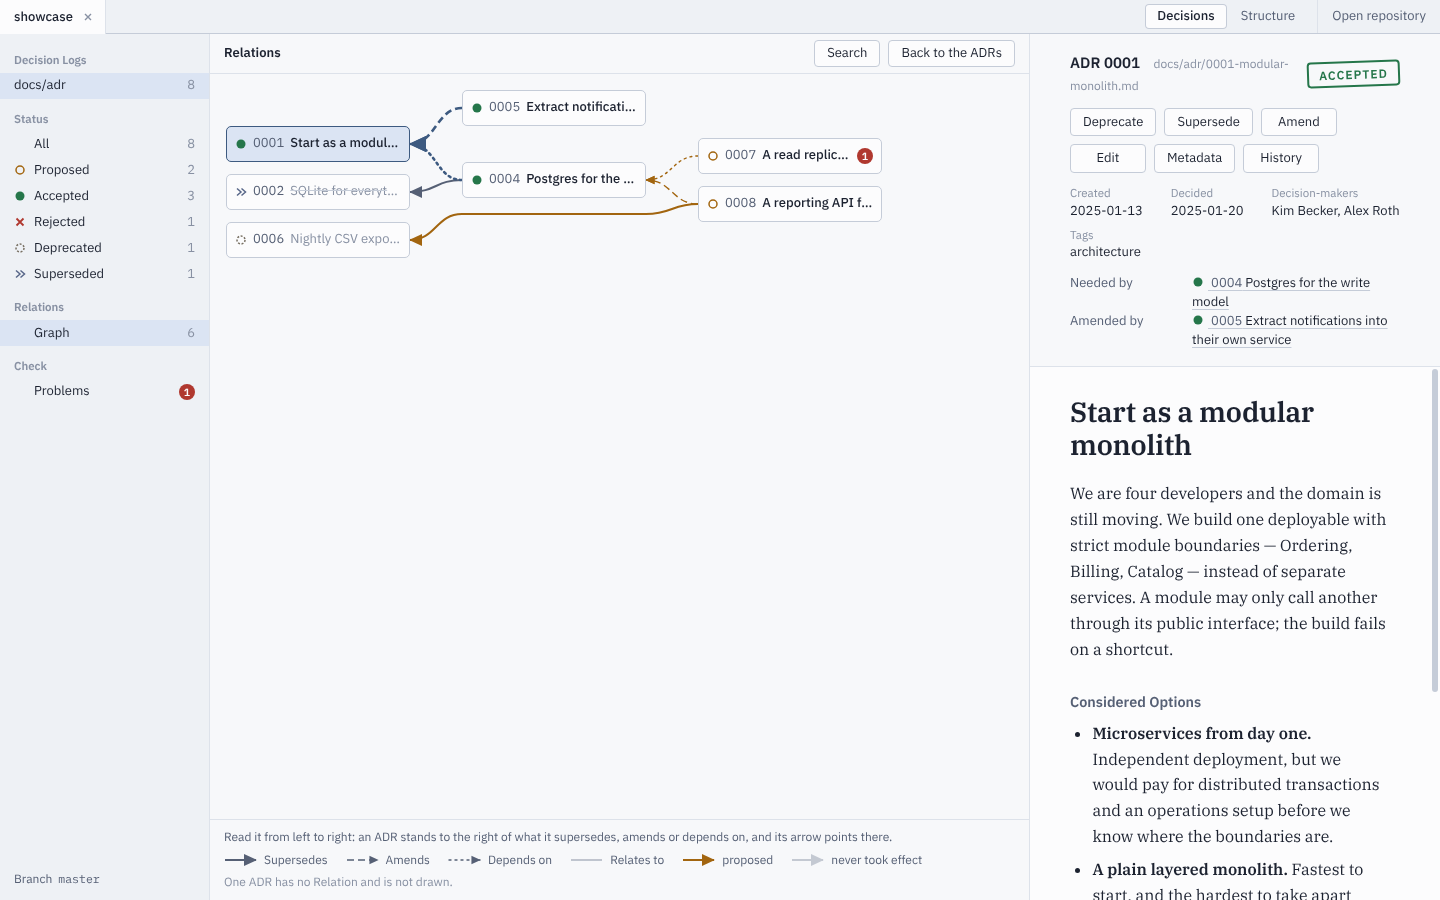
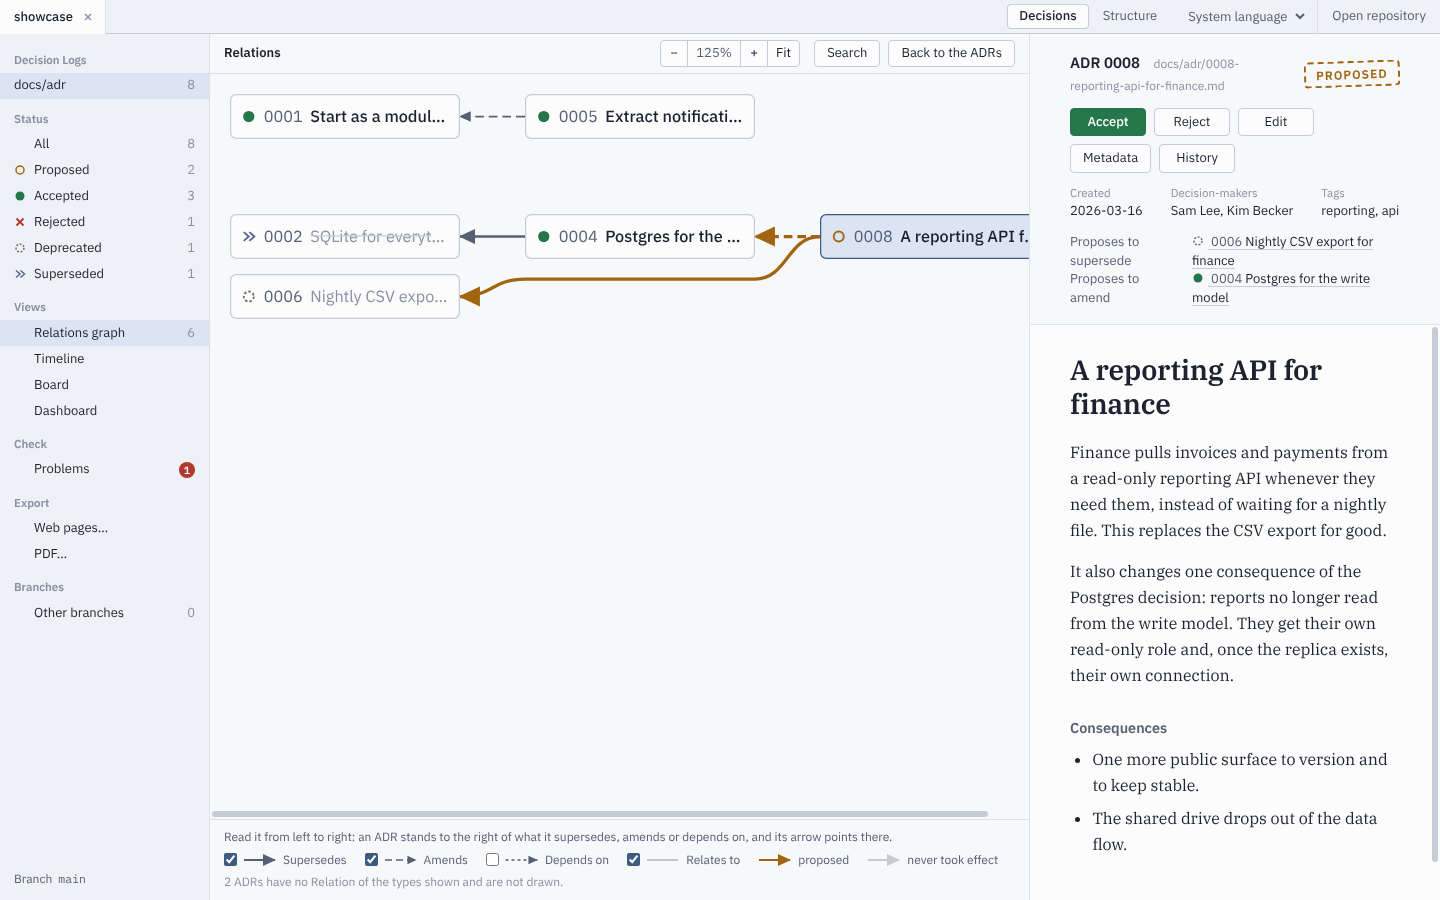
Close the remaining known gaps in the roadmap (part 14)
The roadmap strikes the four gaps under "Later, when a repository
shows the need", each with what holds now. The plan records part 14 as
built, with what was verified in the running app. The README describes
the zoom, the filter and the read-out lines of the Relations graph,
with a new screenshot, and says that a change set is written all of it
or nothing, that the search reads "ß" as "ss", and that the history
follows the file and git.

Claude-Session: https://claude.ai/code/session_01KcUxpgS2rgc4tr52NRcAYm

diff --git a/README.md b/README.md
@@ -45,11 +45,11 @@ The app runs locally: there is no backend, no account and no telemetry.
 ### Decisions
 
 - **Browse.** The app opens one tab per repository and finds every Decision Log in it. You can filter the ADRs by Status: proposed, accepted, rejected, deprecated or superseded. Each ADR shows its Metadata, its Relations and its Back-references, and its text is rendered.
-- **Relations graph.** It shows which ADR supersedes, amends, depends on or relates to which. An ADR stands to the right of what it builds on. A Relation can lead into another Decision Log of the repository, written `docs/adr/0002-…`; the graph draws that ADR with a dashed border.
+- **Relations graph.** It shows which ADR supersedes, amends, depends on or relates to which. An ADR stands to the right of what it builds on. A Relation can lead into another Decision Log of the repository, written `docs/adr/0002-…`; the graph draws that ADR with a dashed border. The graph zooms with its buttons, to fit the pane, and with <kbd>Ctrl</kbd> (<kbd>⌘</kbd> on a Mac) and the mouse wheel about the point under the cursor. The check boxes of its legend show or hide each Relation type, and an ADR left without a Relation that is shown drops out unless it is selected. A screen reader reads each line out as a sentence — "ADR 0004 (Postgres for the write model) supersedes ADR 0002 (SQLite for everything)" — and <kbd>Tab</kbd> goes from box to box.
 
-  ![The Relations graph of a Decision Log](docs/screenshots/readme/relations.png)
+  ![The Relations graph of a Decision Log, zoomed to 125 % and without depends-on](docs/screenshots/readme/relations.png)
 
-- **Write.** You can create a new ADR from a Template: `minimal`, `nygard`, `madr` or the repository's own. You can Accept, Reject, Deprecate, Supersede, Amend and Renumber. Every operation returns a change set, and you see that change set as a diff of every file it touches before anything is written ([ADR-0004](docs/adr/0004-operations-return-change-sets.md)).
+- **Write.** You can create a new ADR from a Template: `minimal`, `nygard`, `madr` or the repository's own. You can Accept, Reject, Deprecate, Supersede, Amend and Renumber. Every operation returns a change set, and you see that change set as a diff of every file it touches before anything is written ([ADR-0004](docs/adr/0004-operations-return-change-sets.md)). A change set is written all of it or nothing: when the disk refuses a step, every file stays as it was ([ADR-0015](docs/adr/0015-a-change-set-is-written-beside-its-files-and-renamed-into.md)).
 
   ![A new ADR that supersedes another, previewed before it is written](docs/screenshots/readme/new-adr-preview.png)
 
@@ -67,8 +67,8 @@ The app runs locally: there is no backend, no account and no telemetry.
 
   ![The Problems of a Decision Log, each with its Repair](docs/screenshots/readme/problems.png)
 
-- **Search.** <kbd>Ctrl</kbd> <kbd>K</kbd> (<kbd>⌘</kbd> <kbd>K</kbd> on a Mac) searches the full text instantly: number, title and body.
-- **git.** The app shows the branch that is checked out and the ADRs with uncommitted changes. For each ADR it shows its history, commit by commit, with the diff. **Commit** commits an ADR's file — and, if you like, those of the ADRs it supersedes or amends — with a message you see and can change. Nothing else that is changed or staged is taken along, and nothing is pushed ([ADR-0012](docs/adr/0012-committing-an-adr-runs-git-commit-for-its-files-only.md)). **Other branches** lists the ADRs that branches which are not checked out add or decide, read from git without checking anything out, and a new ADR warns when another branch has given its number away already.
+- **Search.** <kbd>Ctrl</kbd> <kbd>K</kbd> (<kbd>⌘</kbd> <kbd>K</kbd> on a Mac) searches the full text instantly: number, title and body. It ignores case and accents, and reads "ß" as "ss": "strasse" finds "Straße".
+- **git.** The app shows the branch that is checked out and the ADRs with uncommitted changes. For each ADR it shows its history, commit by commit, with the diff; while the history is open, it follows the file and git. **Commit** commits an ADR's file — and, if you like, those of the ADRs it supersedes or amends — with a message you see and can change. Nothing else that is changed or staged is taken along, and nothing is pushed ([ADR-0012](docs/adr/0012-committing-an-adr-runs-git-commit-for-its-files-only.md)). **Other branches** lists the ADRs that branches which are not checked out add or decide, read from git without checking anything out, and a new ADR warns when another branch has given its number away already.
 - **Export.** **Export → Web pages…** writes the Decision Logs as HTML pages for people who do not use the tool: an index by Status and a page per ADR, with its Relations as links. The pages open from disk, from a file share or from any web host. They run no script and fetch nothing. **PDF…** prints the same ADRs as a PDF, one ADR per page ([ADR-0014](docs/adr/0014-the-export-is-static-html-from-core-printed-to-pdf-by.md)).
 - **Foreign formats.** ADRs written for [MADR](https://adr.github.io/madr/) 2, 3 and 4, for [log4brains](https://github.com/thomvaill/log4brains) and for [adr-tools](https://github.com/npryce/adr-tools) are read as they are. **Migration** converts them into the suite's own format, as a previewed change ([ADR-0005](docs/adr/0005-foreign-formats-are-read-never-written.md)).
 - Light and dark themes, following the system.

diff --git a/docs/plan-roadmap.md b/docs/plan-roadmap.md
@@ -151,6 +151,12 @@ What the roadmap keeps under "Later, when a repository shows the need": a change
 
 *Done when:* each of them has its test, and the roadmap lists no known gap that this plan did not close or defer on purpose.
 
+*Status (2026-11-02):* built. [ADR-0015](adr/0015-a-change-set-is-written-beside-its-files-and-renamed-into.md) records how a change set is written now. `applyChangeSet` (`packages/kernel/src/change/change-set.ts`) checks every file against the preview first, as before. Then it writes every new text beside its file under a hidden name of its own, with the permissions of the file it replaces, and makes it durable, and it gives every file that a new text replaces a second name, a hard link; only then does it rename the new texts into place, the files a Renumber moves first. A step the disk refuses before the renames removes what was made, and a rename that fails is undone from the second names: either way every file is as it was, and the app and the MCP server say "Nothing was written", with what the file system said; the MCP server keeps the change, to be applied again. When undoing fails too, they name each file that is not as it was and where its text is kept. For this the writable file system has two more steps, `link` and `remove`, in the app's main process, the MCP server and the memory file system; a name beside a file is cut when the file's own is long. The tests refuse each of the nine steps of a change set that changes, creates, moves, and moves and changes a file, in memory and on disk, and find every byte as it was and nothing beside the files; on disk, a file keeps its permissions, and a symbolic link inside the repository stays a link (`packages/kernel/test/change-set.test.ts`, `packages/app/test/repository-on-disk.test.ts`). What remains is a crash between the first and the last rename.
+
+The history dialog reads the history again whenever the main process reports that the repository changed — a file of a Decision Log, or git's HEAD or index — while the ADR is still in the log. It stays at the entry that is selected; when that entry is gone, it goes to the newest, which is the commit that took an uncommitted change; the change on disk is read again while it is selected, and the answer to an older question is dropped (`followHistory` in `packages/app/src/renderer/src/lib/history.ts`, `packages/app/test/history.test.ts`). The search folds "ß" and "ẞ" to "ss" and keeps, for every folded character, where in the text it came from, so that a match is marked in the text as written, and a mark of text written decomposed belongs to its letter (`foldWithPlaces`, `packages/app/test/search.test.ts`). The Relations graph zooms from 10 to 200 %: smaller, larger, back to 100 %, Fit, and Ctrl or ⌘ with the wheel about the point under the cursor. Its legend has a check box for each Relation type; an ADR without a Relation that is shown drops out unless it is selected, and the line under the drawing counts what dropped out. A list beside the drawing, which only a screen reader finds, reads each line out as a sentence ("ADR 0008 (A reporting API for finance) supersedes ADR 0006 (Nightly CSV export for finance), proposed"); the boxes were buttons already, in the order the eye reads them. The tab keeps the types and the scale. What is drawn and how it zooms is worked out in `graph-layout.ts` (`relationsShown`, the `keep` option of the layout, `stepScale`, `wheelScale`, `fitScale`, `scrollAfterZoom`; `packages/app/test/graph-layout.test.ts`).
+
+In the running app: on a copy of the showcase log on a file system of 2 MB with 4 KB free, accepting ADR 0008, which writes three files, said "Nothing was written. ENOSPC: no space left on device, write. Every file is as it was before.", and all eight files were byte for byte as before, with nothing beside them; with room again, the same Accept wrote the three files and kept the mode 640 of one of them. With the history of ADR 0005 open: a line written to the file brought "Not committed yet" on top and left the selected commit selected; with that entry selected, another line showed up in its diff; a commit from the terminal replaced it with the commit, selected; with the oldest commit selected, one more commit left it selected; with the newest selected, `git reset --hard HEAD~1` moved the selection to the new newest. "strasse", "STRASSE" and "Straße" found ADR 0005 and marked "straße" in "Hauptstraße"; "hauptstrasse" marked "Hauptstraße". The graph of the showcase read out its six lines, in German as "ADR 0007 (…) hängt von ADR 0004 (…) ab, vorgeschlagen"; Tab went through the boxes column by column. In a log of 41 ADRs, Ctrl and the wheel over a box zoomed to 200 % with the point under the cursor within a pixel of where it was, and Fit drew the log at 15 % inside the pane. Without supersedes, the showcase drawing lost two ADRs and said "3 ADRs have no Relation of the types shown and are not drawn."; an ADR that was selected stayed; with no type ticked and nothing selected, the drawing said that no Relation of the ticked types is there. The README's screenshot of the graph is the zoomed and filtered one.
+
 ## Status
 
 The status of each part is recorded under it as it is merged.

diff --git a/docs/roadmap.md b/docs/roadmap.md
@@ -68,7 +68,7 @@ With more foreign formats:
 
 Later, when a repository shows the need:
 
-- A change set is not atomic across a failing disk. Renumber renames first, so that the likeliest failure — a file held open by another program — happens before anything is written.
-- The history dialog does not follow the files while it is open.
-- The search does not fold "ß" to "ss".
-- The Relations graph draws one Decision Log, scrolls but does not zoom, has no filter by Relation type, and its lines are not read out to a screen reader (the same Relations are in every ADR's detail). An ADR that very many others build on across many layers makes a tall drawing.
+- ~~A change set is not atomic across a failing disk. Renumber renames first, so that the likeliest failure — a file held open by another program — happens before anything is written.~~ Closed on 2026-11-02 ([plan-roadmap.md](plan-roadmap.md), part 14): every new text is written beside its file and renamed into place, and a step the disk refuses leaves every file as it was, byte for byte ([ADR-0015](adr/0015-a-change-set-is-written-beside-its-files-and-renamed-into.md)); a crash between the first and the last rename is the window that remains.
+- ~~The history dialog does not follow the files while it is open.~~ Closed on 2026-11-02 ([plan-roadmap.md](plan-roadmap.md), part 14): it reads the history again when the file, or git's HEAD or index, moves, and stays at the entry that is selected while that entry is still there.
+- ~~The search does not fold "ß" to "ss".~~ Closed on 2026-11-02 ([plan-roadmap.md](plan-roadmap.md), part 14): "strasse" finds "Straße", "Straße" finds "Strasse", and the match is marked in the text as it is written.
+- ~~The Relations graph draws one Decision Log, scrolls but does not zoom, has no filter by Relation type, and its lines are not read out to a screen reader (the same Relations are in every ADR's detail). An ADR that very many others build on across many layers makes a tall drawing.~~ Closed on 2026-11-02 ([plan-roadmap.md](plan-roadmap.md), part 14): the graph zooms — with buttons, to fit the pane, and with Ctrl or ⌘ and the wheel about the point under the cursor —, filters by Relation type, and reads each line out to a screen reader; it draws the log in view with the ADRs of other logs that its Relations lead to, as since part 6, and a tall drawing fits the pane at a smaller scale.
